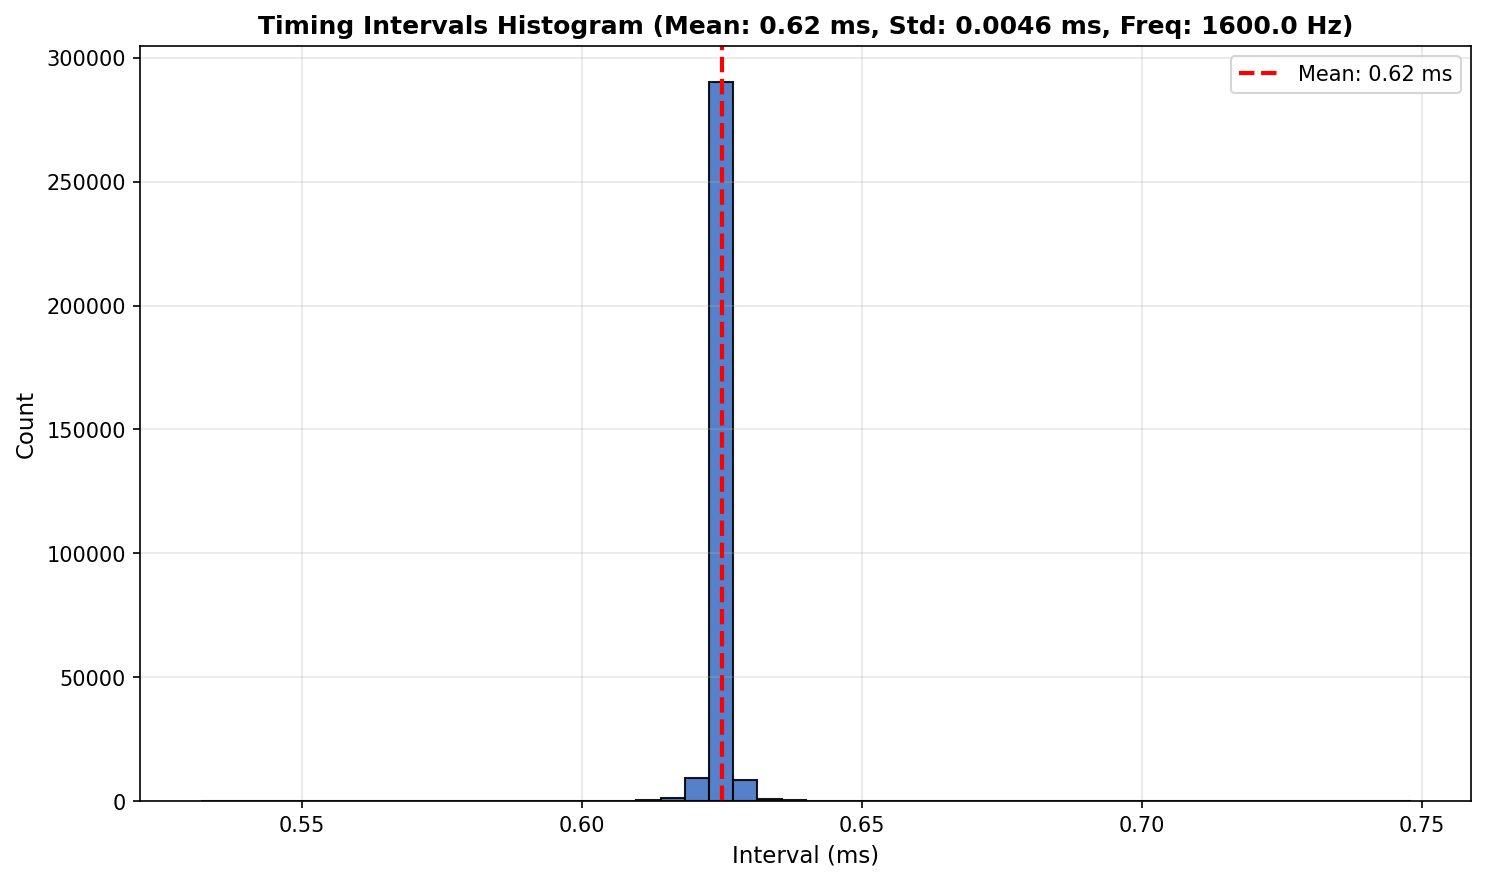
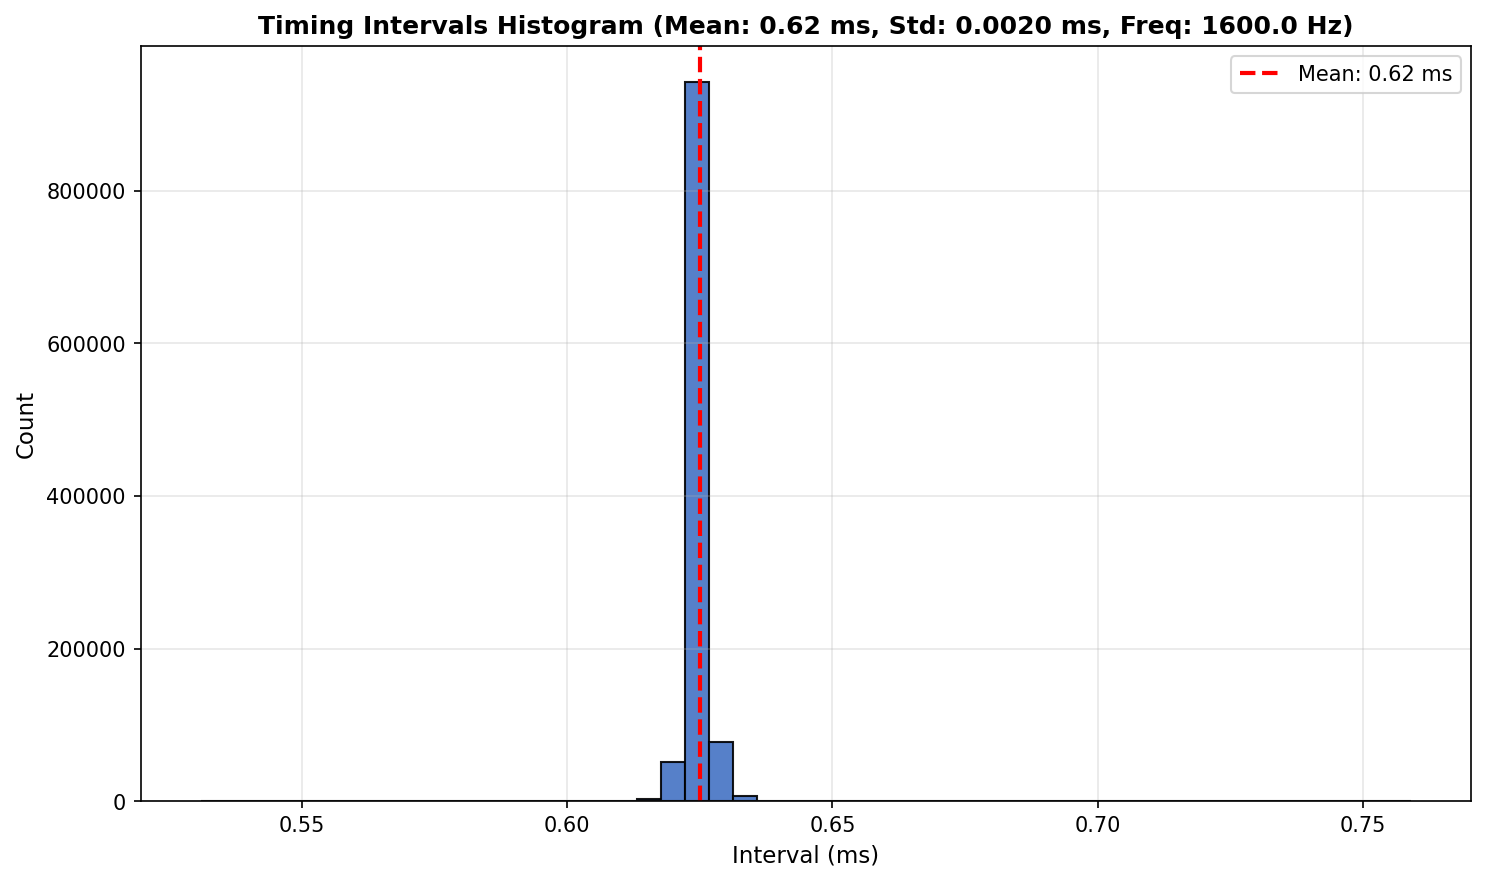
feat: Improved plots with outlier rejection.

diff --git a/plot_timing_histograms.py b/plot_timing_histograms.py
@@ -11,6 +11,48 @@ import argparse
 from pathlib import Path
 
 
+def remove_outliers(intervals_ms, method='iqr', threshold=3.0):
+    """
+    Remove outliers from timing intervals.
+    
+    Parameters:
+    -----------
+    intervals_ms : array
+        Timing intervals in milliseconds
+    method : str
+        Method for outlier detection: 'iqr' (Interquartile Range) or 'zscore'
+    threshold : float
+        For IQR: multiplier for IQR (default 3.0 for more aggressive filtering)
+        For zscore: number of standard deviations (default 3.0)
+        
+    Returns:
+    --------
+    filtered : array
+        Intervals with outliers removed
+    num_removed : int
+        Number of outliers removed
+    """
+    if method == 'iqr':
+        q1 = np.percentile(intervals_ms, 25)
+        q3 = np.percentile(intervals_ms, 75)
+        iqr = q3 - q1
+        lower_bound = q1 - threshold * iqr
+        upper_bound = q3 + threshold * iqr
+        mask = (intervals_ms >= lower_bound) & (intervals_ms <= upper_bound)
+    elif method == 'zscore':
+        mean = np.mean(intervals_ms)
+        std = np.std(intervals_ms)
+        z_scores = np.abs((intervals_ms - mean) / std)
+        mask = z_scores < threshold
+    else:
+        raise ValueError(f"Unknown method: {method}")
+    
+    filtered = intervals_ms[mask]
+    num_removed = len(intervals_ms) - len(filtered)
+    
+    return filtered, num_removed
+
+
 def plot_timing_histogram(intervals_ms, dataset_name, output_path=None):
     """
     Plot timing histogram with mean, std, and frequency in title.
@@ -63,7 +105,7 @@ def plot_timing_histogram(intervals_ms, dataset_name, output_path=None):
     plt.close()
 
 
-def process_csv_file(filepath):
+def process_csv_file(filepath, remove_outliers_flag=False):
     """
     Process CSV file and extract timestamps.
     
@@ -71,6 +113,8 @@ def process_csv_file(filepath):
     -----------
     filepath : str or Path
         Path to the CSV file
+    remove_outliers_flag : bool
+        Whether to apply outlier rejection (for IMU/INS data)
         
     Returns:
     --------
@@ -98,6 +142,13 @@ def process_csv_file(filepath):
     # Calculate intervals in milliseconds
     intervals_us = np.diff(timestamps)
     intervals_ms = intervals_us / 1000.0
+    
+    # Apply outlier rejection if requested
+    if remove_outliers_flag:
+        filtered, num_removed = remove_outliers(intervals_ms, method='iqr', threshold=3.0)
+        if num_removed > 0:
+            print(f"  Removed {num_removed} outliers ({100*num_removed/len(intervals_ms):.2f}%)")
+        intervals_ms = filtered
     
     return intervals_ms
 
@@ -200,28 +251,28 @@ def main():
     if imu_files:
         imu_file = imu_files[0]
         print(f"\nProcessing: {imu_file.name}")
-        intervals = process_csv_file(imu_file)
+        intervals = process_csv_file(imu_file, remove_outliers_flag=True)
         
         if intervals is not None and len(intervals) > 0:
             output_path = None if args.show else output_dir / 'imu_timing_histogram.png'
             plot_timing_histogram(intervals, 'IMU', output_path)
             print(f"  Records: {len(intervals) + 1}")
             print(f"  Mean interval: {np.mean(intervals):.2f} ms ({1000/np.mean(intervals):.1f} Hz)")
-            print(f"  Std: {np.std(intervals):.2f} ms")
+            print(f"  Std: {np.std(intervals):.4f} ms")
     
     # Process INS CSV file
     ins_files = list(data_dir.glob('*_ins.csv'))
     if ins_files:
         ins_file = ins_files[0]
         print(f"\nProcessing: {ins_file.name}")
-        intervals = process_csv_file(ins_file)
+        intervals = process_csv_file(ins_file, remove_outliers_flag=True)
         
         if intervals is not None and len(intervals) > 0:
             output_path = None if args.show else output_dir / 'ins_timing_histogram.png'
             plot_timing_histogram(intervals, 'INS', output_path)
             print(f"  Records: {len(intervals) + 1}")
             print(f"  Mean interval: {np.mean(intervals):.2f} ms ({1000/np.mean(intervals):.1f} Hz)")
-            print(f"  Std: {np.std(intervals):.2f} ms")
+            print(f"  Std: {np.std(intervals):.4f} ms")
     
     # Process ADS1015 (ADC) file
     ads_files = list(data_dir.glob('ADS*.bin'))
